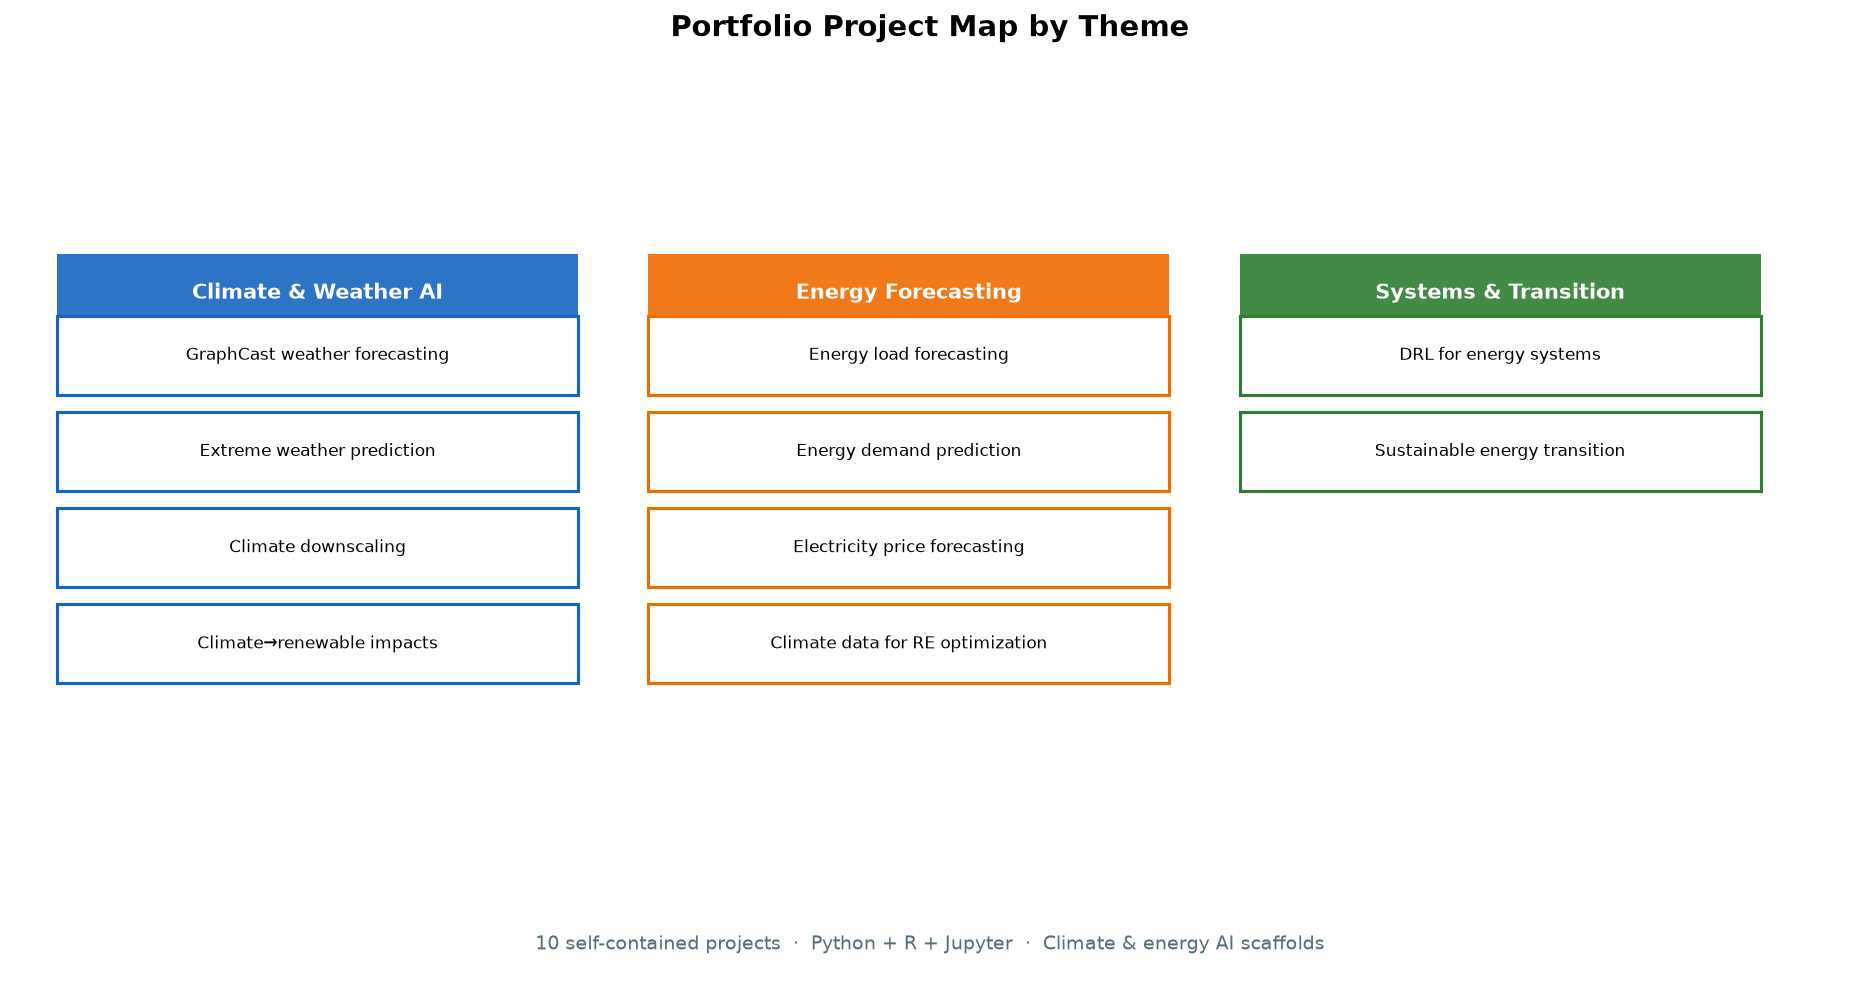
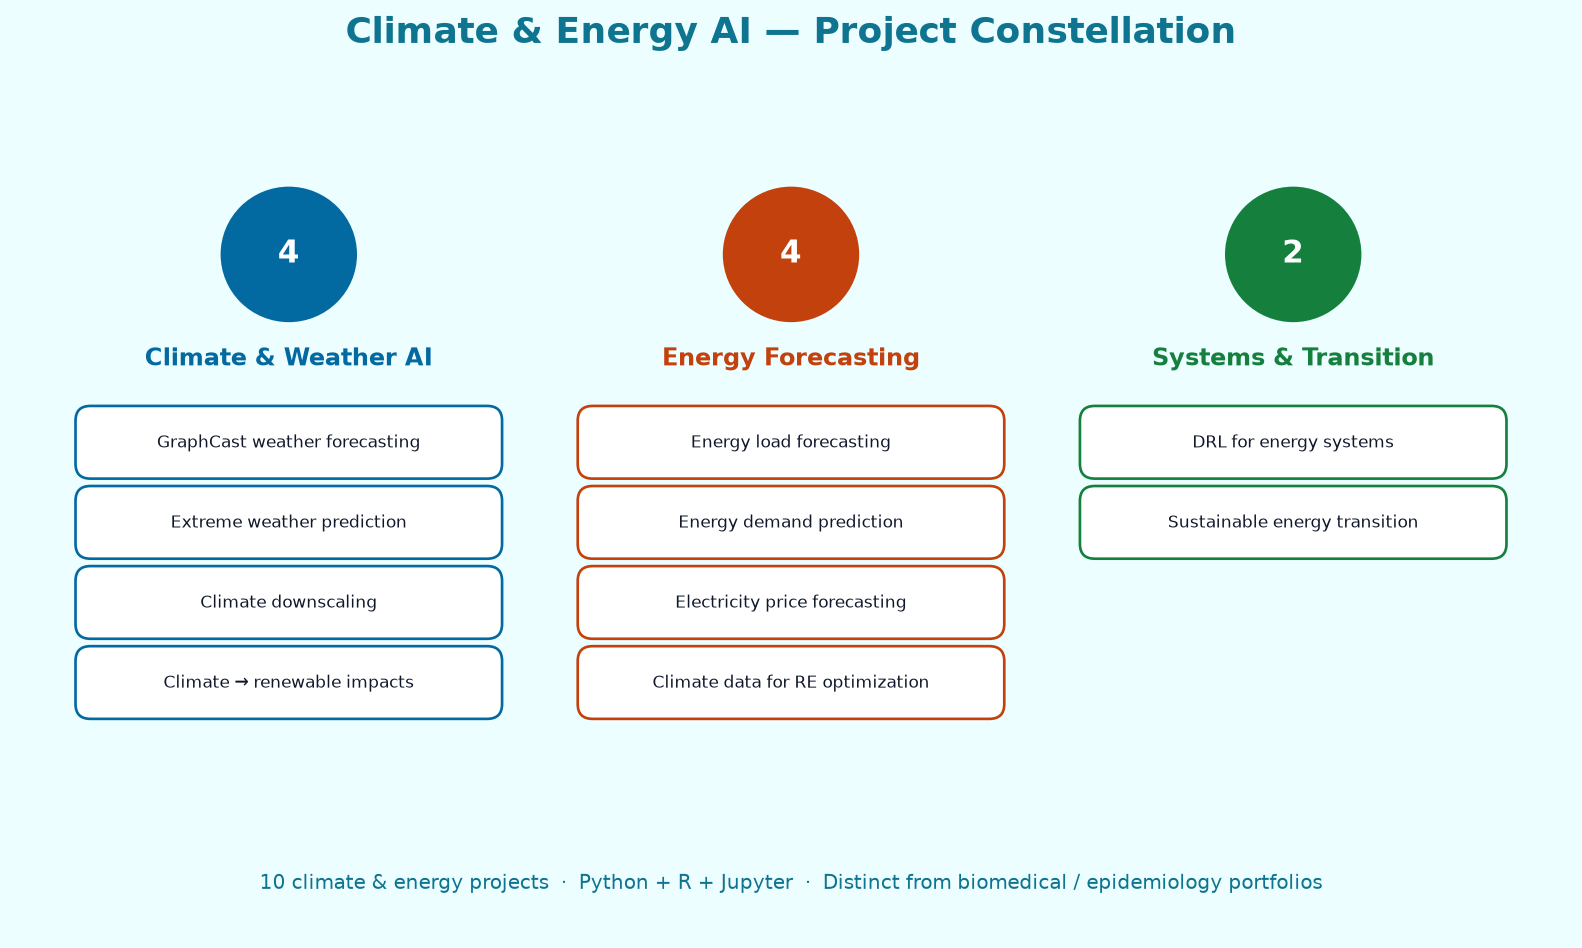
Update README.md

diff --git a/README.md b/README.md
@@ -41,7 +41,9 @@ Portfolio-level figures in `assets/` summarize themes across all ten climate/ene
 
 ![Portfolio cross-project visual overview](assets/portfolio_overview.png)
 
-### Project theme map
+### Project theme map (climate & energy only)
+
+Constellation map of the **10 climate/energy folders** (weather AI, energy forecasting, systems/transition). This figure is unique to this repository — not shared with the biomedical or epidemiology portfolios:
 
 ![Portfolio project theme map](assets/project_theme_map.png)
 
